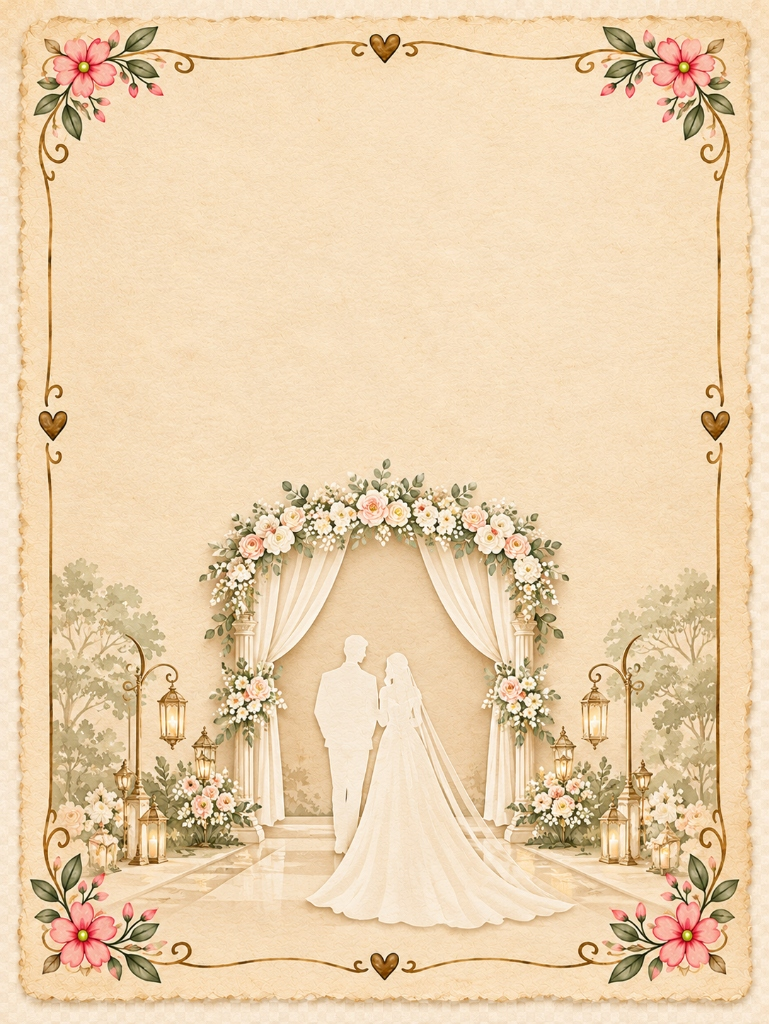
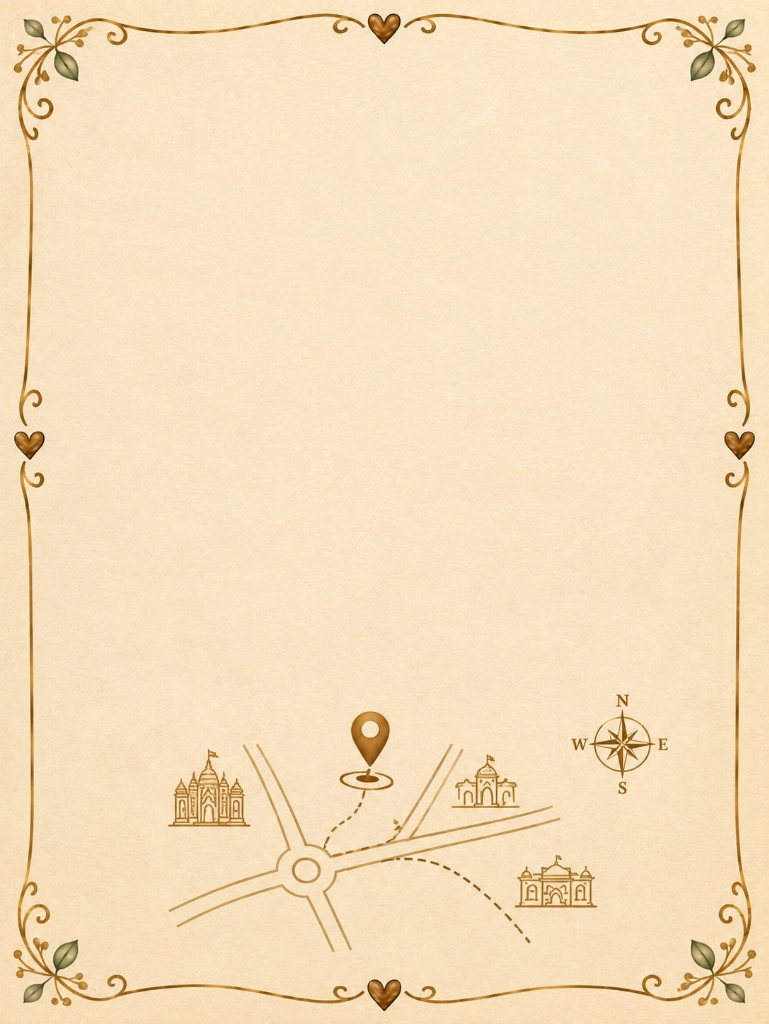
Update venue background and adjust text layout

Changed region(s): [[0.0, 0.0, 1.0, 1.0]]

diff --git a/styles.css b/styles.css
@@ -1127,13 +1127,13 @@ select:focus-visible {
     position: relative;
     width: 100%;
     max-width: 520px;
-    aspect-ratio: 769 / 1024;
+    aspect-ratio: 768 / 1024;
     background-image: url("assets/venue-bg.jpg");
     background-size: 100% 100%;
     background-position: center center;
     background-repeat: no-repeat;
     box-sizing: border-box;
-    border-radius: 4px;
+    border-radius: 6px;
     filter: drop-shadow(0 18px 40px rgba(60, 65, 75, 0.12));
     transition: transform 0.4s ease, filter 0.4s ease;
     overflow: hidden;
@@ -1144,20 +1144,20 @@ select:focus-visible {
     filter: drop-shadow(0 24px 48px rgba(60, 65, 75, 0.16));
 }
 
-/* Venue content — positioned in the upper arch area of the card image */
+/* Venue content — centered in the open parchment area above the bottom map illustration */
 .venue-content {
     position: absolute;
-    top: 5%;
-    left: 7%;
-    right: 7%;
-    height: 44%;
+    top: 10%;
+    left: 10%;
+    right: 10%;
+    height: 52%;
     display: flex;
     flex-direction: column;
     align-items: center;
     justify-content: space-evenly;
     text-align: center;
     box-sizing: border-box;
-    padding: 8px 10px 4px;
+    padding: 10px 12px 6px;
     z-index: 3;
 }
 
